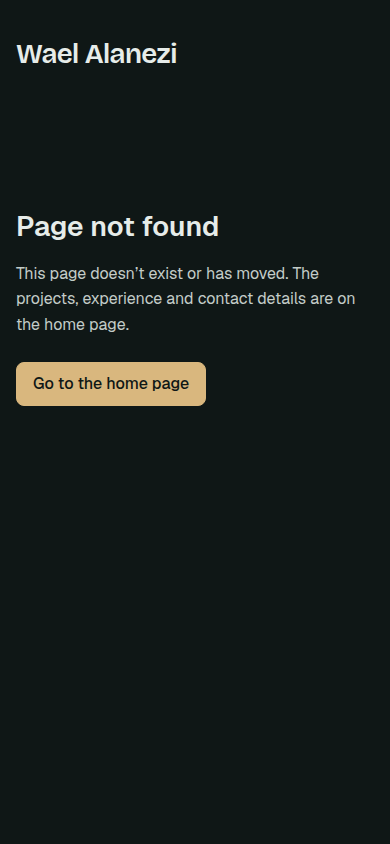
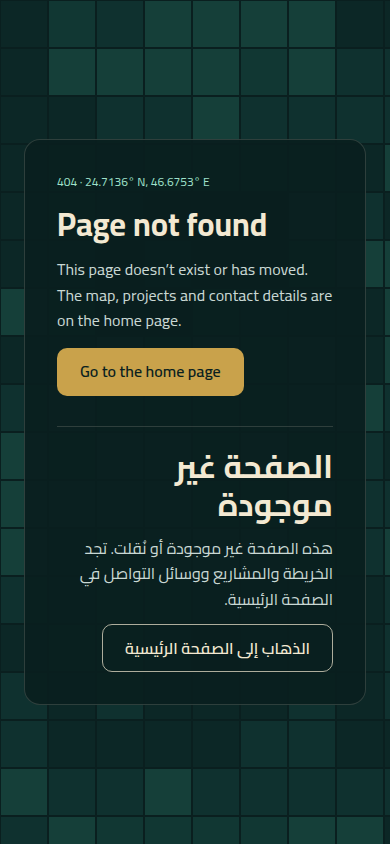
docs: record redesign decisions and refresh screenshots
Claude-Session: https://claude.ai/code/session_014iE84MpdszDz8Z2h1drnfe

diff --git a/docs/DECISIONS.md b/docs/DECISIONS.md
@@ -113,3 +113,19 @@ Bricolage uses its variable `opsz`, `wdth` and `wght` axes, with `font-optical-s
 ## Certificate shapes
 - **What:** The certificate component reads each image's real width and height at build time. The hover preview keeps landscape certificates 240 px wide and portrait ones 300 px tall, and the lightbox shows the whole image without cropping.
 - **Why:** The ECCMA certificate is portrait, and a fixed landscape box would have cropped most of it.
+
+## Redesign: satellite view of Riyadh (portfolio-design-spec.md)
+- **What:** Replaced the Spruce sidebar design with the spec's satellite-map design: Cairo for both scripts, deep teal and gold tokens, a seeded map grid drawn in code, project pins, a layers map with Skills, Projects and Goals chips, a project detail view, a bento project grid, and About with a contact card. Built English at `/` and Arabic at `/ar/` from one component, with `lang` and `dir` set and the chosen language remembered in local storage.
+- **Wael's answers:** use the new design; show Rent & Build, NDVI drone (in progress with his team), Mubsir, Lessons Learned and the agentic assistant; email wael.m.alanezi@gmail.com; the spec's About text; build the Arabic version now. He later added his phone number to the contact card.
+- **Kept from the existing site:** the CV, all real project details and results, the Rent & Build images, video and case study, and the certificates with their hover preview and lightbox (restyled in a new "Training and certifications" section, which the spec doesn't cover).
+
+## Redesign details decided where the spec is silent
+- **Detail view:** every project has a panel; the NDVI drone shows by default, and pins and links switch panels with `#project-<id>` through CSS `:target`, so it works without JavaScript and each project can be linked directly. Pins that open projects are links; skill and goal pins are labels.
+- **Responsive hero:** the desktop layout starts at 1100 px. Map overlays (roads, rings, pins) use the spec's coordinates as percentages of a 1440 × 900 stage anchored to the inline end, so they scale down on smaller laptops while the text stays fixed. Below 1100 px the 390 × 844 mobile layout is used. Arabic mobile pins mirror the English ones.
+- **Line height:** hero text uses 1.874, Cairo's auto line height in Figma, so lines sit where the spec places them.
+- **Case studies:** stay in English. Arabic buttons say so: "دراسة الحالة الكاملة (بالإنجليزية)".
+- **Card and detail text:** the spec's short card summaries, and the existing one-line descriptions on detail panels where the spec gives none. Project titles follow the spec ("Agentic RAG personal assistant", "Lessons learned for PMOs"), except Rent & Build, which keeps its real name.
+- **Removed placeholders:** Mubsir's "[one sentence on how it works]" and "[Code or demo video, if public]", and the agentic assistant's "[Say what the human approves.]", because the facts aren't known. Lessons Learned's context and "What I learned" now use facts from Wael's CV and his own list of options.
+- **Arabic coordinates:** use left-to-right marks around each number, so the degree sign stays on the correct side.
+- **Social image and favicon:** redrawn in the new palette with no text: a pinned map grid and a gold pin.
+- **Contrast:** every spec colour pair passes WCAG AA on its background (lowest 4.79:1), so the spec's opacities are kept as they are.

diff --git a/README.md b/README.md
@@ -6,17 +6,18 @@ A one-page portfolio with project case studies, built with Astro as a static sit
 
 All text lives in `src/content/`, so you don't need to touch code:
 
-- `src/content/site/home.yaml`: headline, intro, proof line, about, experience, education, training, activities, contact and links.
-- `src/content/projects/*.md`: one file per project. The top block (between `---` lines) holds the title, one-line summary, result, image and links. The text below it is the case-study page.
-- Only Rent & Build is live right now. Mubsir, Lessons Learned and the agentic assistant are written but hidden with `published: false` at the top of their files. To show one, delete that line (or set it to `true`) and push.
+- `src/content/site/en.yaml` and `src/content/site/ar.yaml`: every piece of text on the home page, in English and Arabic (hero, map layers, project detail labels, certificates, About, contact, 404). Keep the two files in step when you change one.
+- `src/content/projects/*.md`: one file per project. The top block holds the card and detail text in English, with an `ar:` block for the Arabic version. The text below the top block is the English case-study page.
+- `visual` picks the project's graphic: `pipeline` (with `steps`), `bars` (sample price bars), `ndvi` (sample heatmap) or `image`.
+- To hide a project, add `published: false` at the top of its file.
 
-Text in `[square brackets]` is a placeholder to replace.
+The map grids, heatmaps and pins are drawn in code from a seeded pattern (`src/lib/map.ts`), so they look the same on every load. The Mubsir bars and NDVI heatmap are labelled as samples on the page.
 
 ## Add files
 
 - **CV:** `public/cv.pdf`. Replace the file to update it.
-- **Project screenshots:** when you publish a hidden project, replace its placeholder in `public/projects/` (`mubsir.webp`, `lessons-learned.webp`, `agentic-assistant.webp`) with a 16:10 WebP screenshot (1280×800 works well), and update `imageAlt` in its file.
-- **Certificates:** images live in `public/certificates/`. Four are in; add `eccma-mdqm.webp` for the ECCMA certificate. Small preview thumbnails are made automatically in `public/certificates/thumbs/` when you run `npm run dev` or `npm run build`. Until an image exists, that certificate shows a neutral placeholder card. Check certificates for personal details (such as an ID number) and cover them before adding.
+- **Project images:** `public/projects/`. A project with `visual: image` uses its `image` file.
+- **Certificates:** images live in `public/certificates/`. Small preview thumbnails are made automatically in `public/certificates/thumbs/` when you run `npm run dev` or `npm run build`. Check certificates for personal details (such as an ID number) and cover them before adding.
 
 ## Run locally
 
